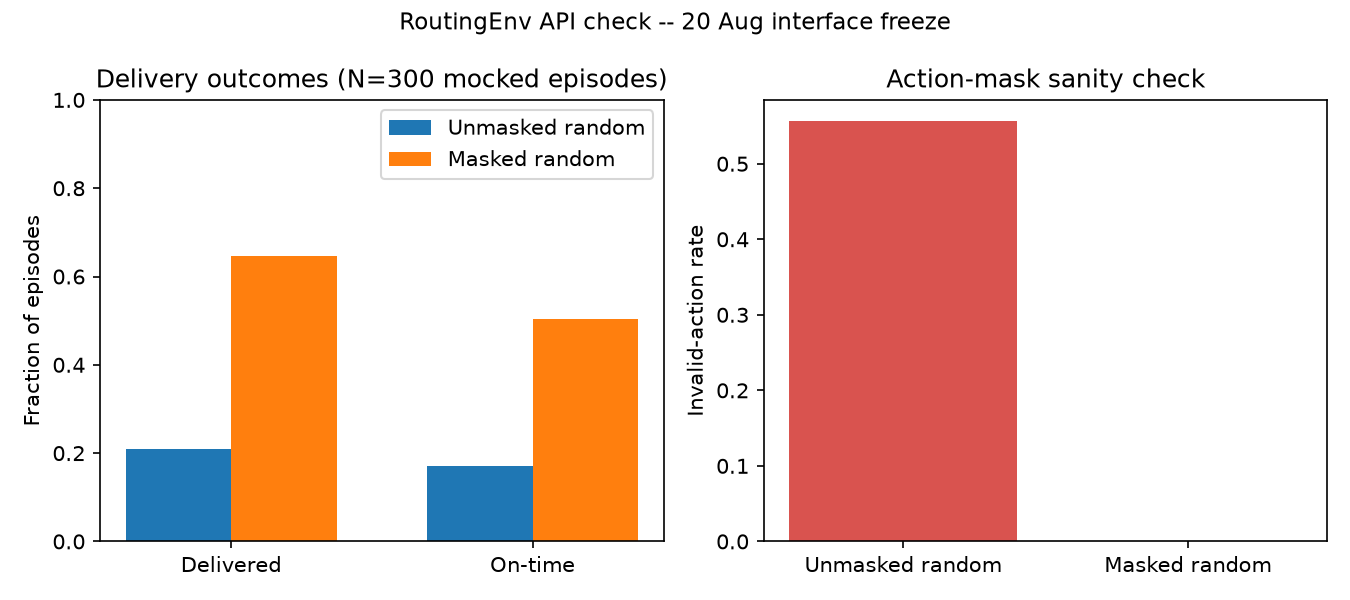
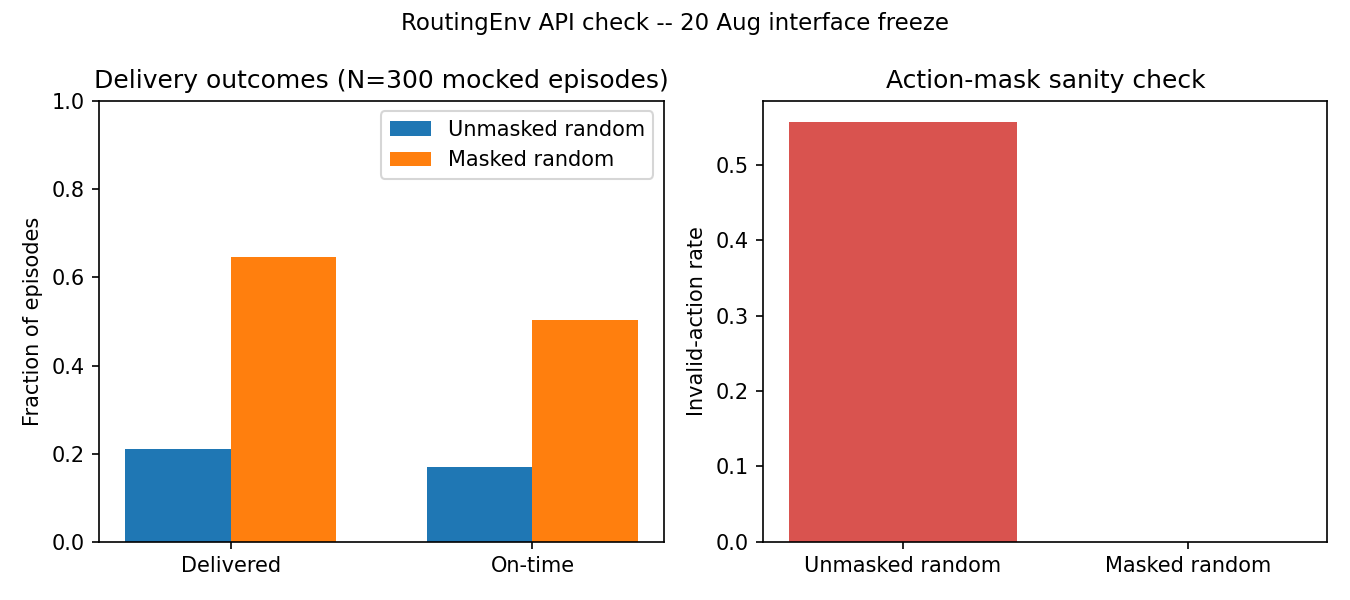
Updated packet.py

diff --git a/RL/rl_env_v0/src/rl/env.py b/RL/rl_env_v0/src/rl/env.py
@@ -104,6 +104,8 @@ class RoutingEnv(gym.Env):
         return obs, info
 
     def step(self, action: int):
+        assert self.bundle is not None, "call reset() before step()"
+        assert self.contact_plan is not None, "call reset() before step()"
         mask = self._action_mask()
         reward = 0.0
         terminated = False
@@ -194,6 +196,8 @@ class RoutingEnv(gym.Env):
         return self._action_mask()
 
     def _action_mask(self) -> np.ndarray:
+        assert self.bundle is not None, "call reset() before step()"
+        assert self.contact_plan is not None, "call reset() before step()"
         mask = np.zeros(NUM_NODES, dtype=np.int8)
         holder = self.bundle.current_holder
 
@@ -259,6 +263,7 @@ class RoutingEnv(gym.Env):
         return contact
 
     def _build_observation(self) -> np.ndarray:
+        assert self.bundle is not None, "call reset() before step()"
         b = self.bundle
         bundle_feats = [
             b.science_priority,
@@ -270,7 +275,6 @@ class RoutingEnv(gym.Env):
             bundle_feats[0] = 0.0
 
         mask = self._action_mask()
-        holder = self.bundle.current_holder
         rows = []
         for node_id in range(NUM_NODES):
             valid = mask[node_id]

diff --git a/src/model/README.md b/src/model/README.md
@@ -579,8 +579,16 @@ This bundle does **not** add a new model for:
 <!-- Updated nodes.py, satellite_generator.py, and packet.py -->
 - scheduling transmissions;
 
-
+<!-- Done! -->
+<!-- Added two more route selection strategy besides bfs_to_closest_receiver().
+     Added a greedy and least congested approach in packet.py -->
+<!-- BFS - Find closest to receiver with fewer hops -->
+<!-- Greedy - Find the neighbor who is the most physically closest to a receiver -->
+<!-- Least Congested - Extended BFS approach but gets the least packet loaded    
+     neighbor -->
 - route selection;
+
+
 - link bandwidth;
 - receiver capacity;
 - end-to-end delivery success;
